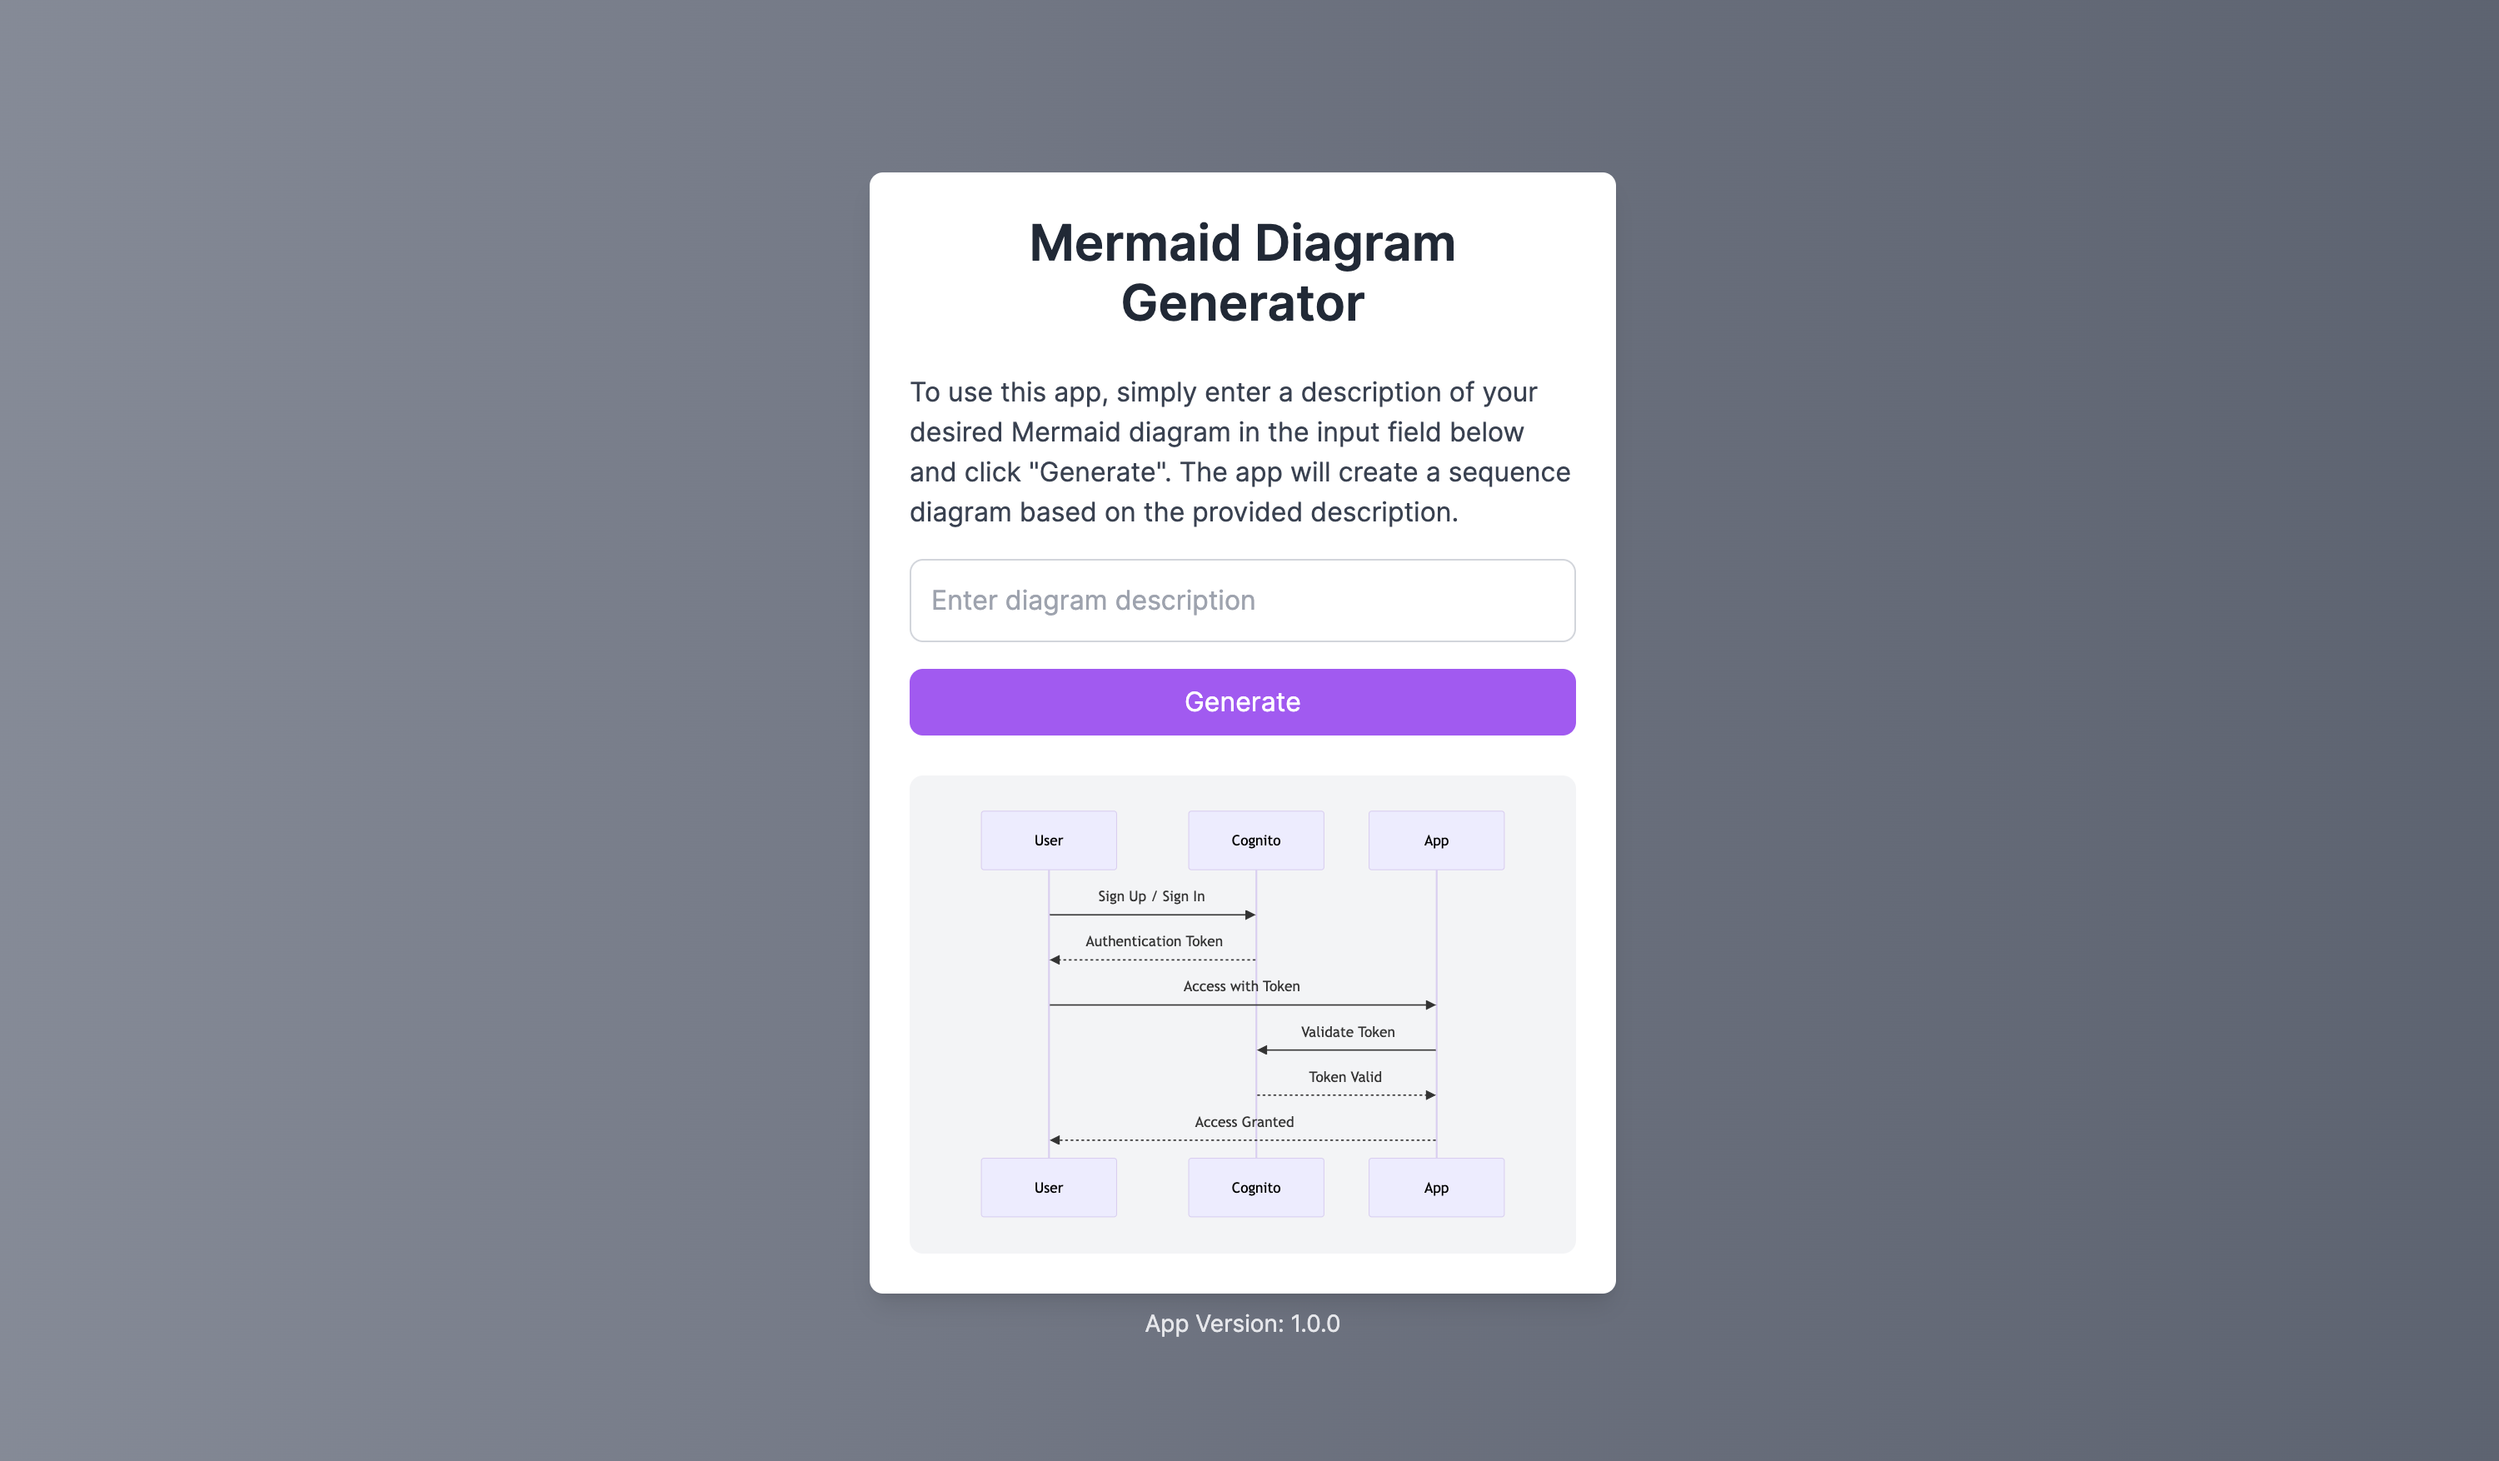
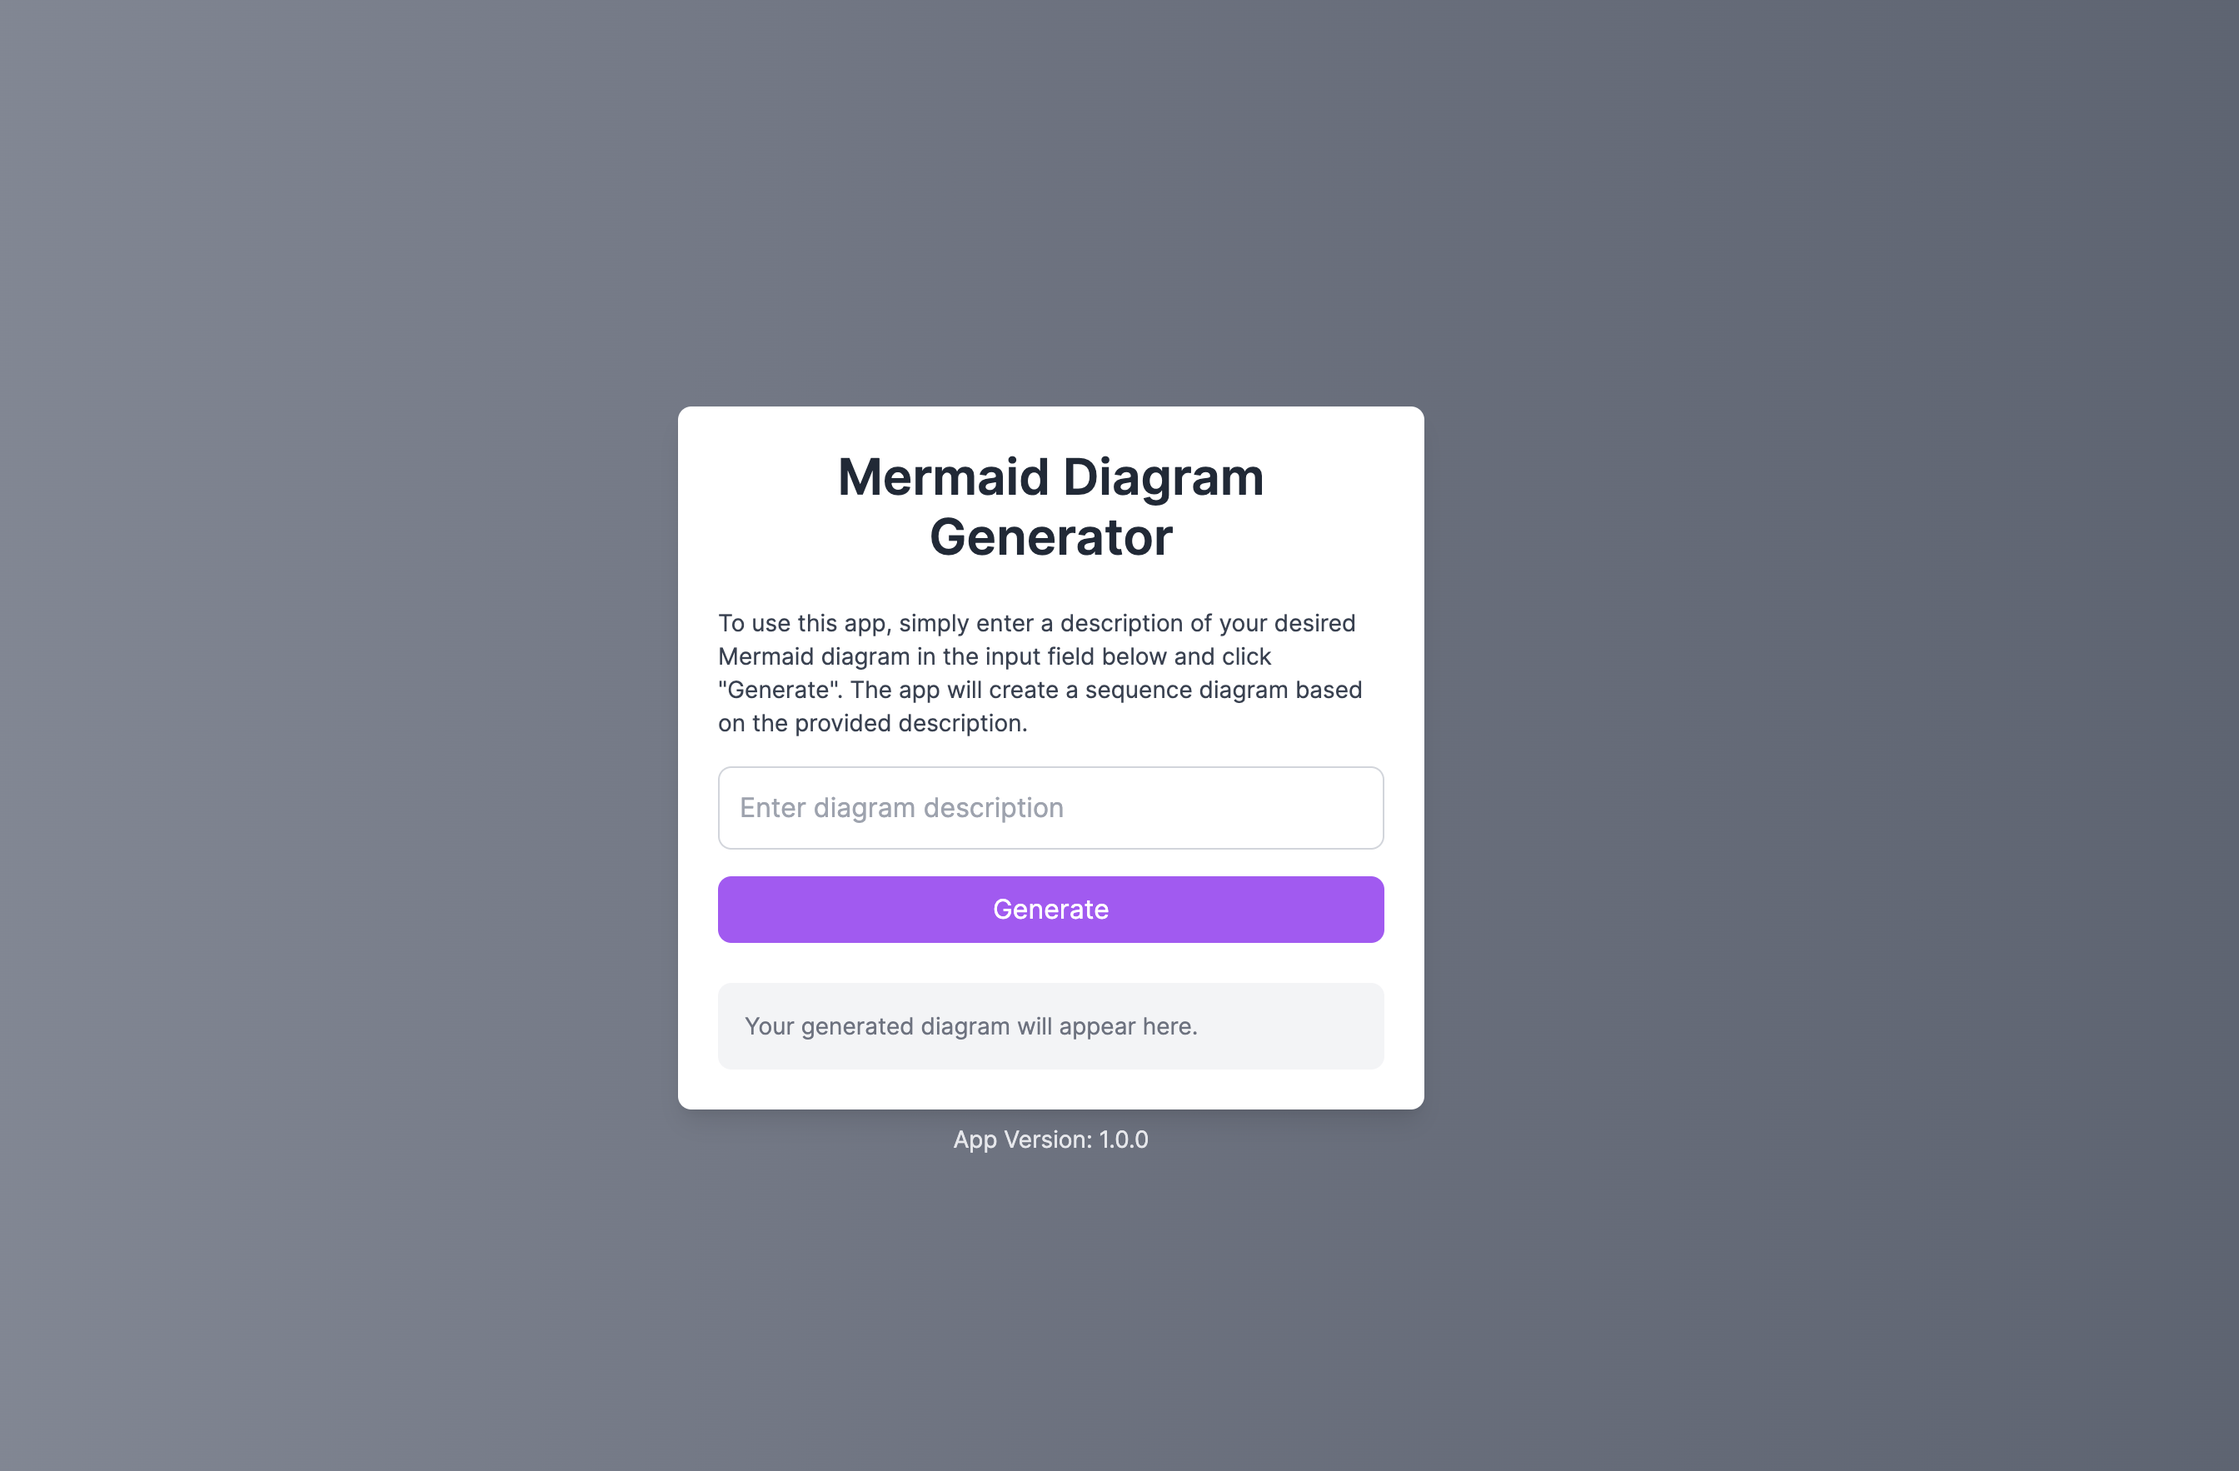
style(page): Update text style and quotes in UI

Changed region(s): [[0.2812, 0.0924, 0.6562, 0.9236]]

diff --git a/app/page.tsx b/app/page.tsx
@@ -42,8 +42,8 @@ export default function Home() {
   <main className="p-4 flex flex-col justify-center items-center min-h-screen bg-gradient-to-r from-gray-400 via-gray-500 to-gray-600">
     <div className="w-full max-w-md bg-white shadow-lg rounded-lg p-6">
       <h1 className="text-3xl font-semibold mb-6 text-center text-gray-800">Mermaid Diagram Generator</h1>
-      <p className="mb-4 text-gray-700">
-        To use this app, simply enter a description of your desired Mermaid diagram in the input field below and click "Generate". 
+      <p className="mb-4 text-sm text-gray-700">
+        To use this app, simply enter a description of your desired Mermaid diagram in the input field below and click &quot;Generate&quot;. 
         The app will create a sequence diagram based on the provided description.
       </p>
       <form className="mb-6" onSubmit={handleGenerateDiagram}>
@@ -62,7 +62,7 @@ export default function Home() {
         {diagramSyntax ? (
           <div className="mermaid">{diagramSyntax}</div>
         ) : (
-          <p className="text-gray-500">Your generated diagram will appear here.</p>
+          <p className="text-gray-500 text-sm">Your generated diagram will appear here.</p>
         )}
       </div>
     </div>
